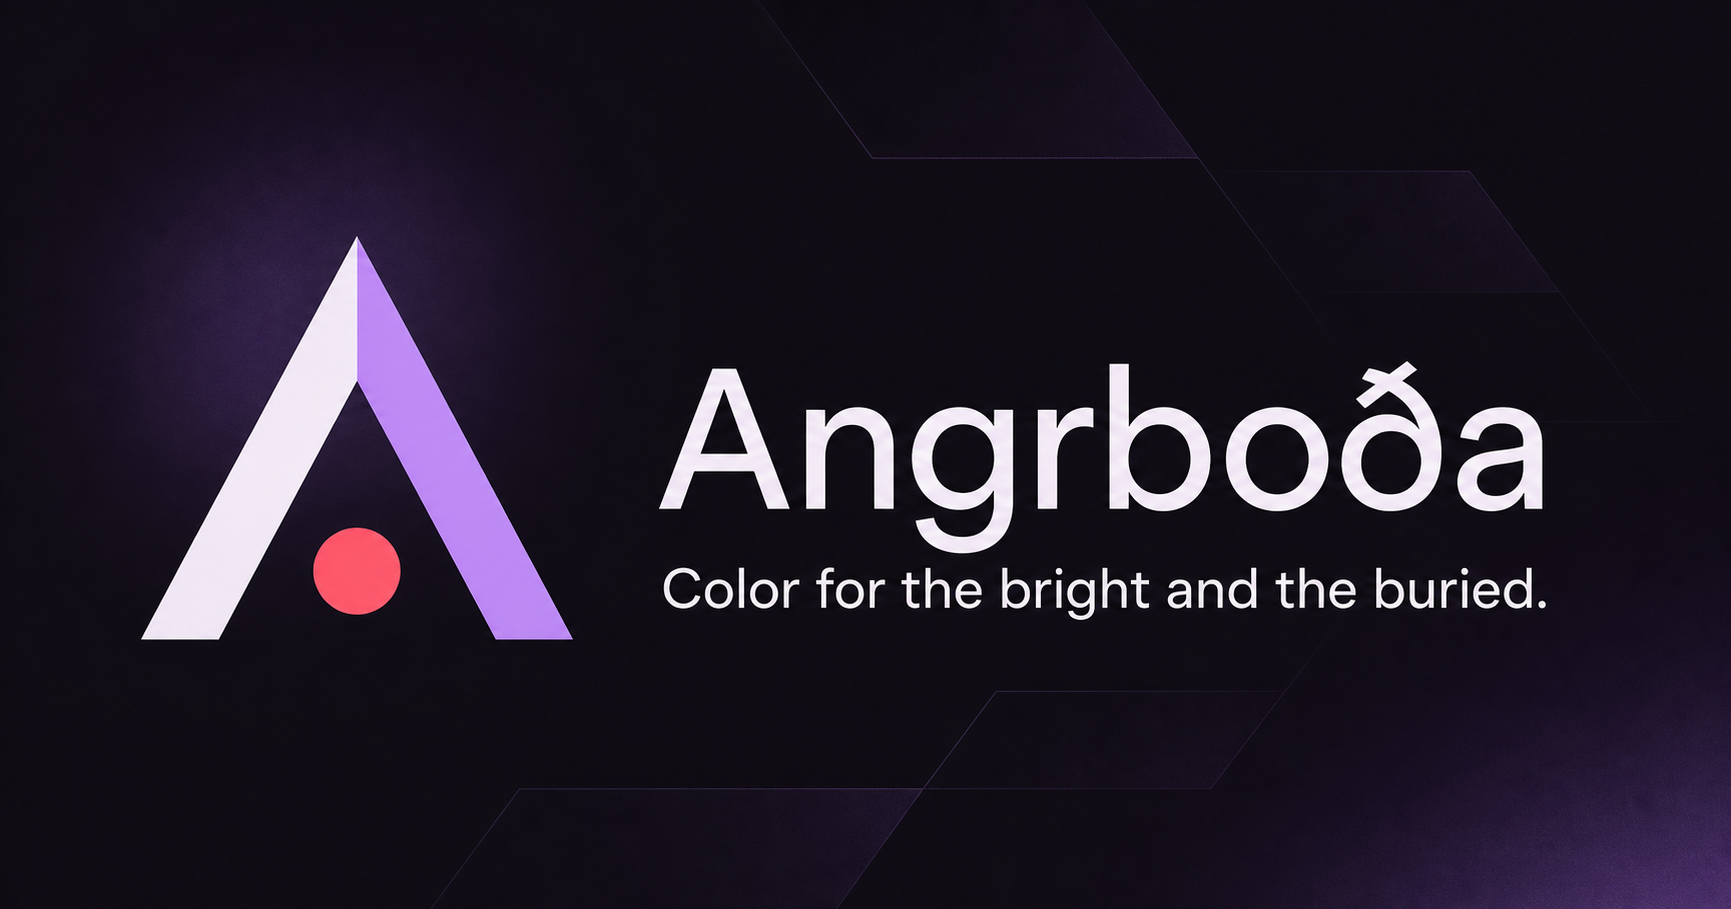
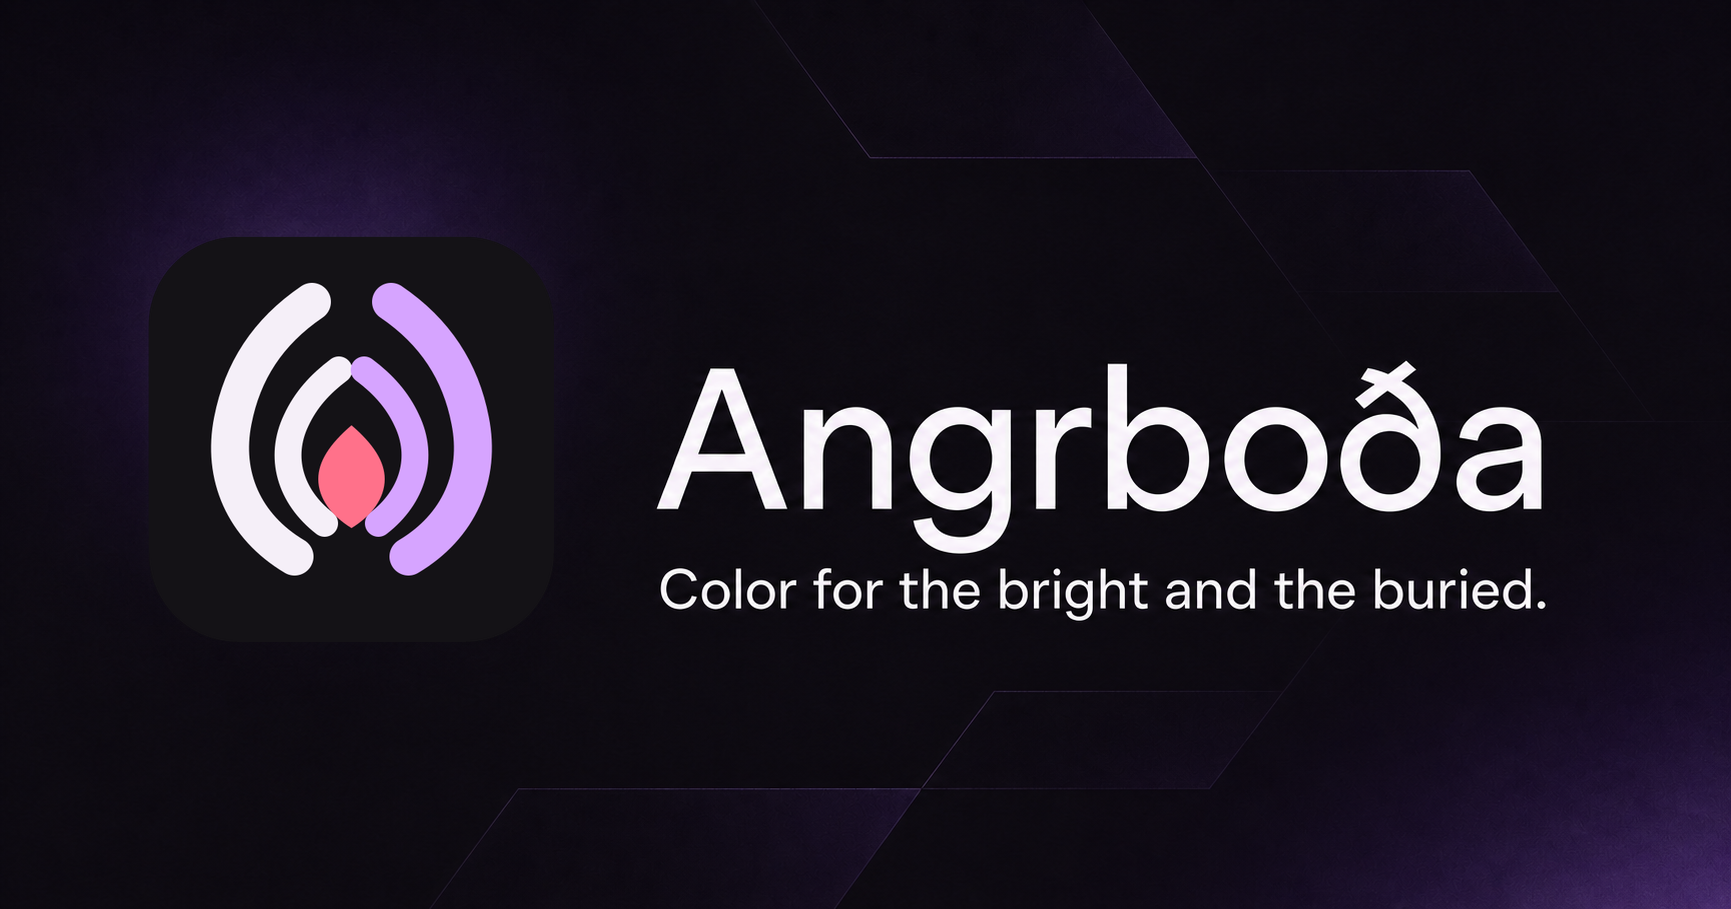
feat: replace the Angrboda brand mark

diff --git a/CHANGELOG.md b/CHANGELOG.md
@@ -4,6 +4,8 @@
 
 - Added generated Zed, Sublime Text, Helix, iTerm2, and Base16 ports.
 - Added a checksummed cross-tool ZIP bundle to builds and GitHub releases.
+- Replaced the original angular letterform with the crafted Ironwood-and-ember
+  brand mark across the extension, website, favicon, and social artwork.
 - Expanded format validation, installation guidance, and AI harness support
   documentation.
 
